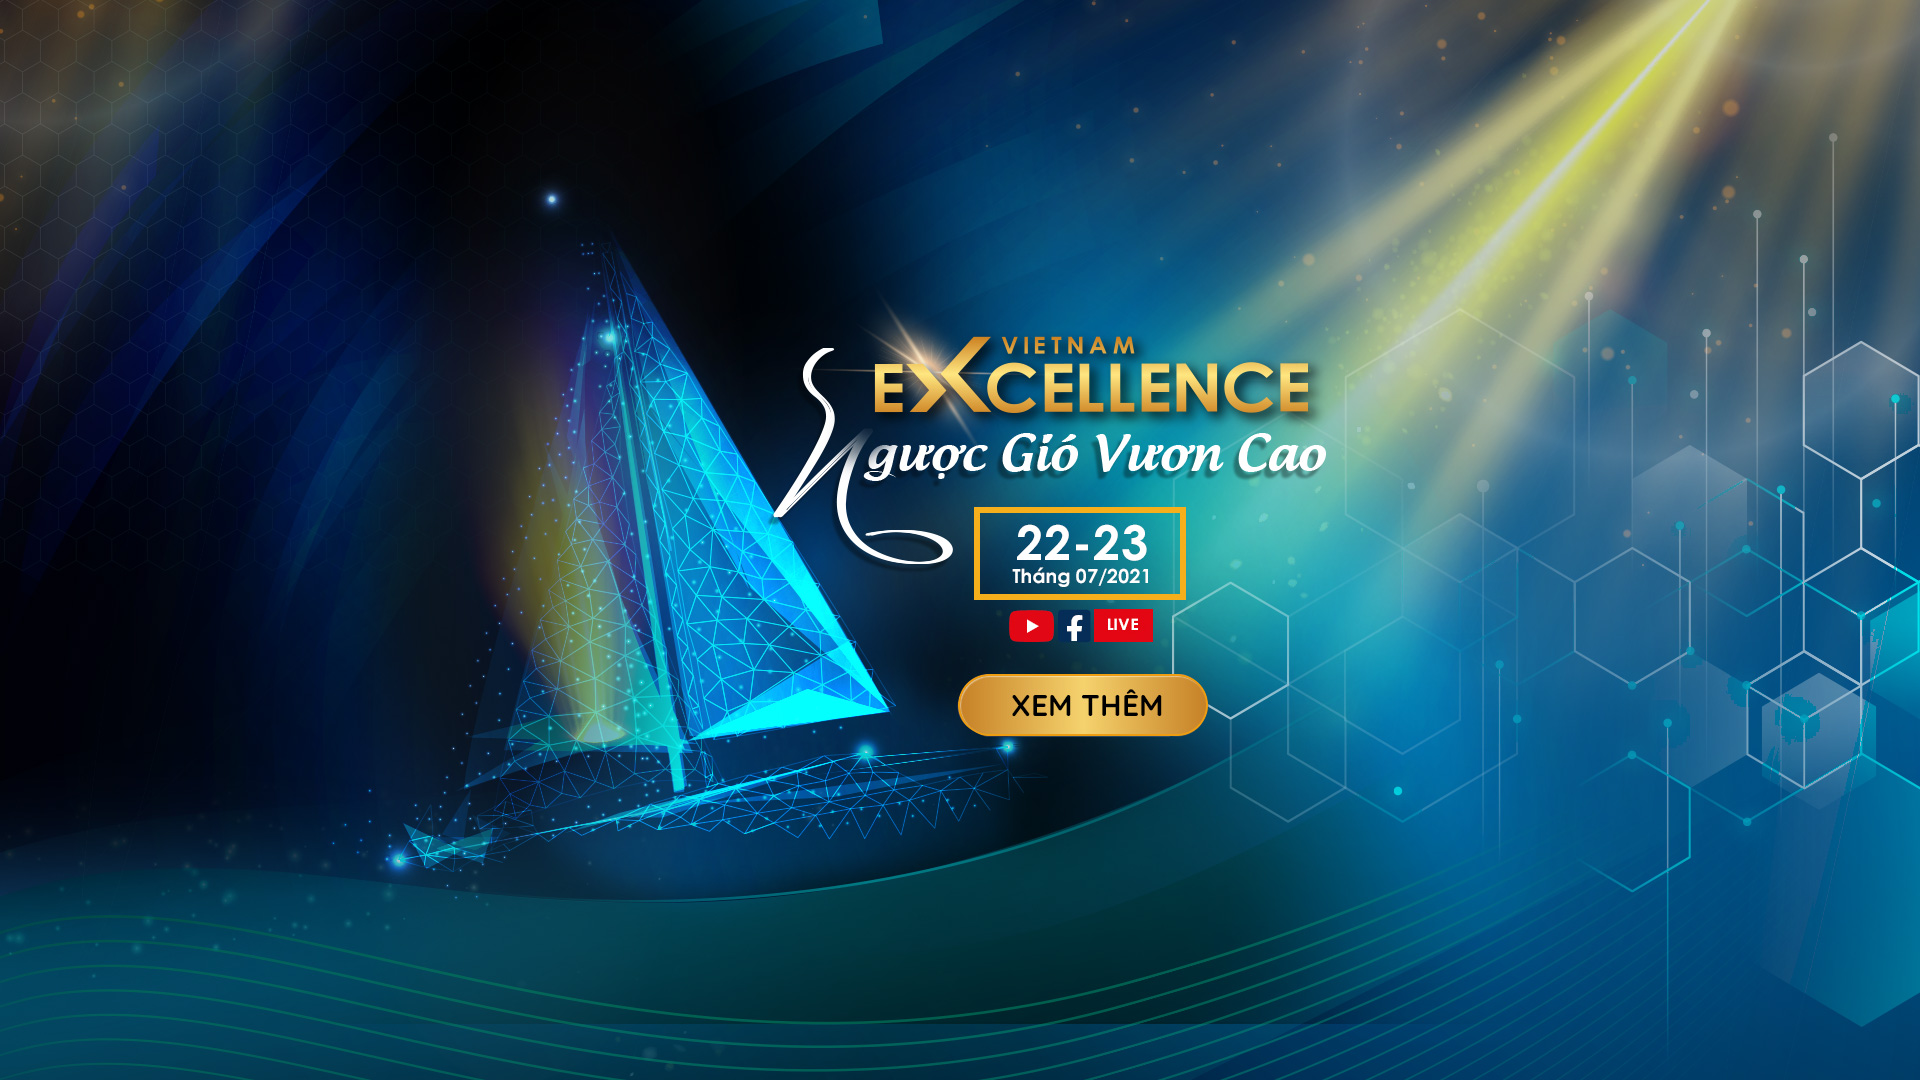
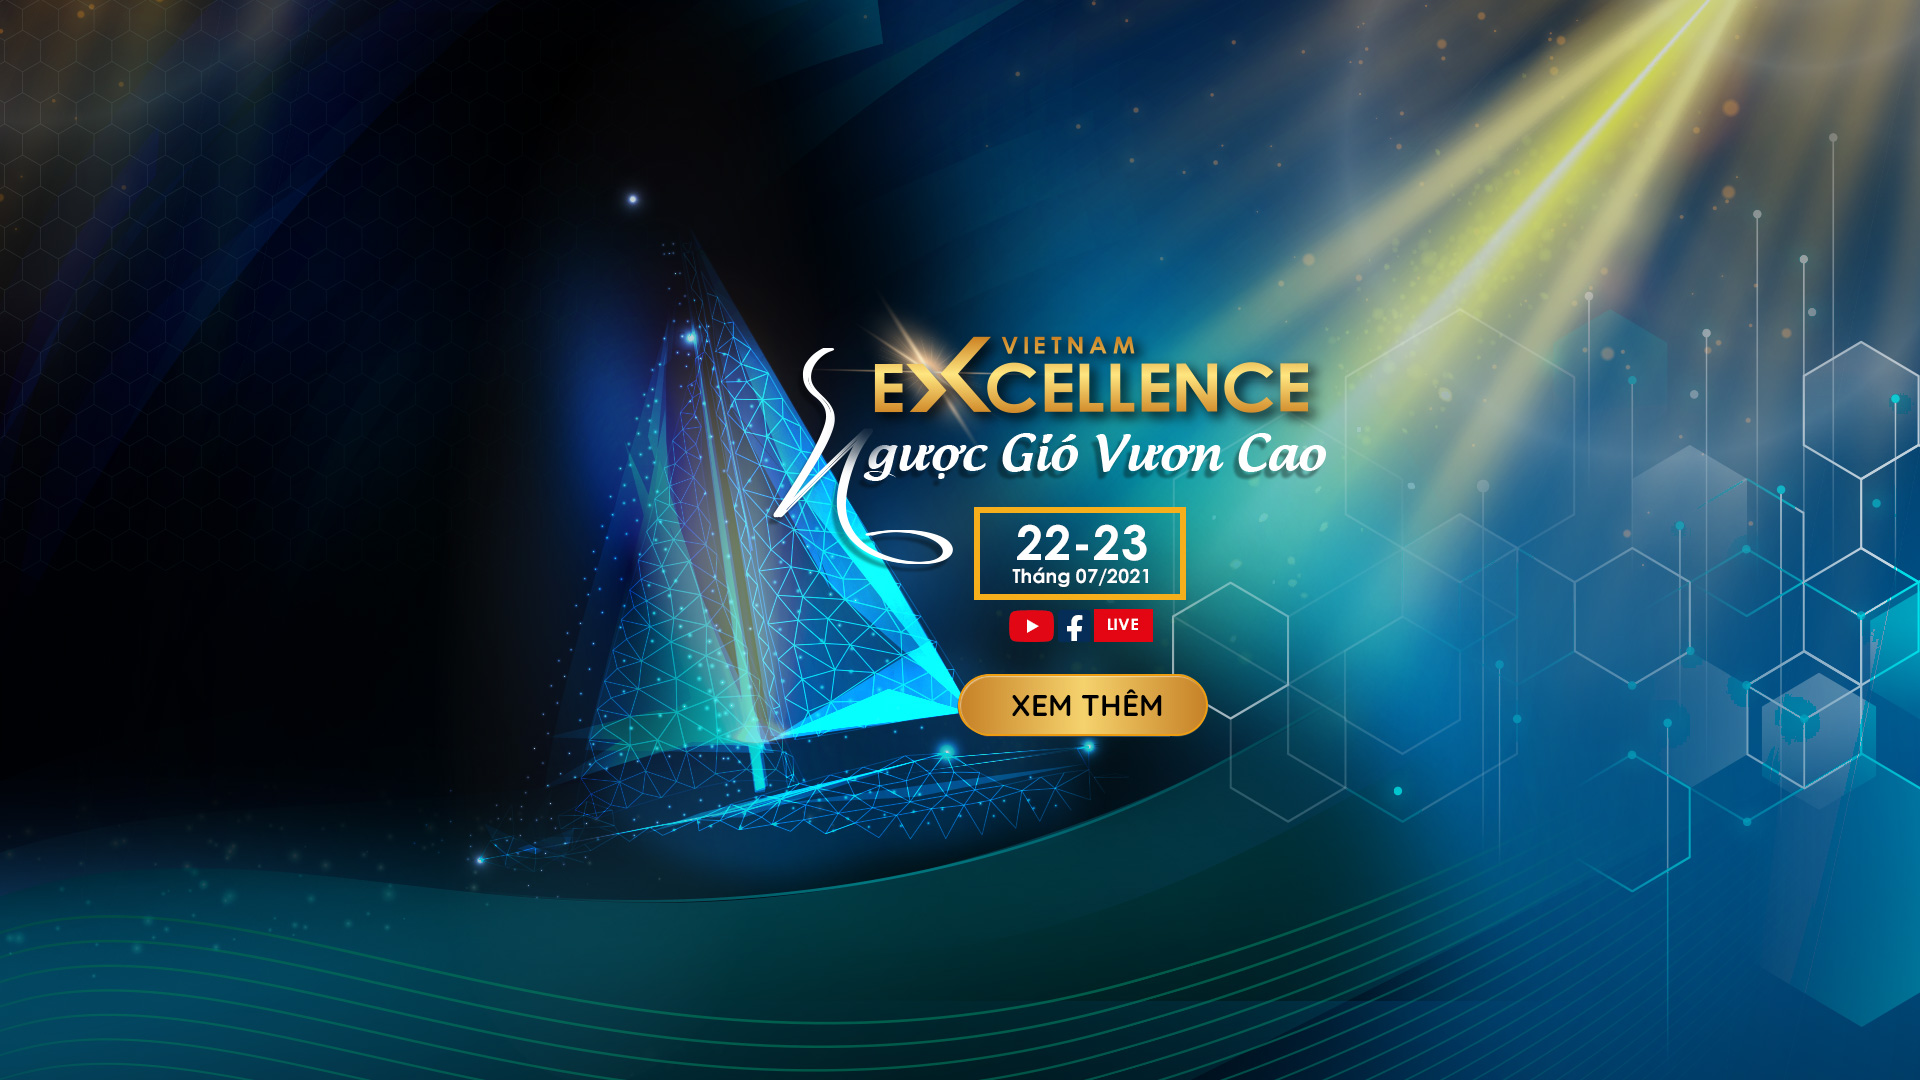
update

diff --git a/index.html b/index.html
@@ -116,11 +116,11 @@ height="0" width="0" style="display:none;visibility:hidden"></iframe></noscript>
 
 <section class="slider1 cid-sBCrrOGXBH mbr-fullscreen" id="slider1-69">
     
-    <div class="carousel slide" id="sBCSDhhF6M" data-interval="5000">
+    <div class="carousel slide" id="sBCTsJWYYM" data-interval="5000">
       <div class="full-screen">
           <ol class="carousel-indicators">
-              <li data-slide-to="0" class="active" data-target="#sBCSDhhF6M"></li>
-              <li data-slide-to="1" data-target="#sBCSDhhF6M"></li>
+              <li data-slide-to="0" class="active" data-target="#sBCTsJWYYM"></li>
+              <li data-slide-to="1" data-target="#sBCTsJWYYM"></li>
               
           </ol>
           <div class="carousel-inner">            
@@ -160,11 +160,11 @@ height="0" width="0" style="display:none;visibility:hidden"></iframe></noscript>
               
               
           </div>
-          <a class="carousel-control carousel-control-prev" role="button" data-slide="prev" href="#sBCSDhhF6M">
+          <a class="carousel-control carousel-control-prev" role="button" data-slide="prev" href="#sBCTsJWYYM">
               <span class="mobi-mbri mobi-mbri-arrow-prev" aria-hidden="true"></span>
               <span class="sr-only">Previous</span>
           </a>
-          <a class="carousel-control carousel-control-next" role="button" data-slide="next" href="#sBCSDhhF6M">
+          <a class="carousel-control carousel-control-next" role="button" data-slide="next" href="#sBCTsJWYYM">
               <span class="mobi-mbri mobi-mbri-arrow-next" aria-hidden="true"></span>
               <span class="sr-only">Next</span>
           </a>

diff --git a/assets/mobirise/css/mbr-additional.css b/assets/mobirise/css/mbr-additional.css
@@ -1244,7 +1244,7 @@ a {
 .cid-sBCrrOGXBH .full-screen .slider-fullscreen-image {
   min-height: 100vh;
   background-repeat: no-repeat;
-  background-position: 58% 50%;
+  background-position: 57% 50%;
   background-size: cover;
 }
 .cid-sBCrrOGXBH .carousel-item {
